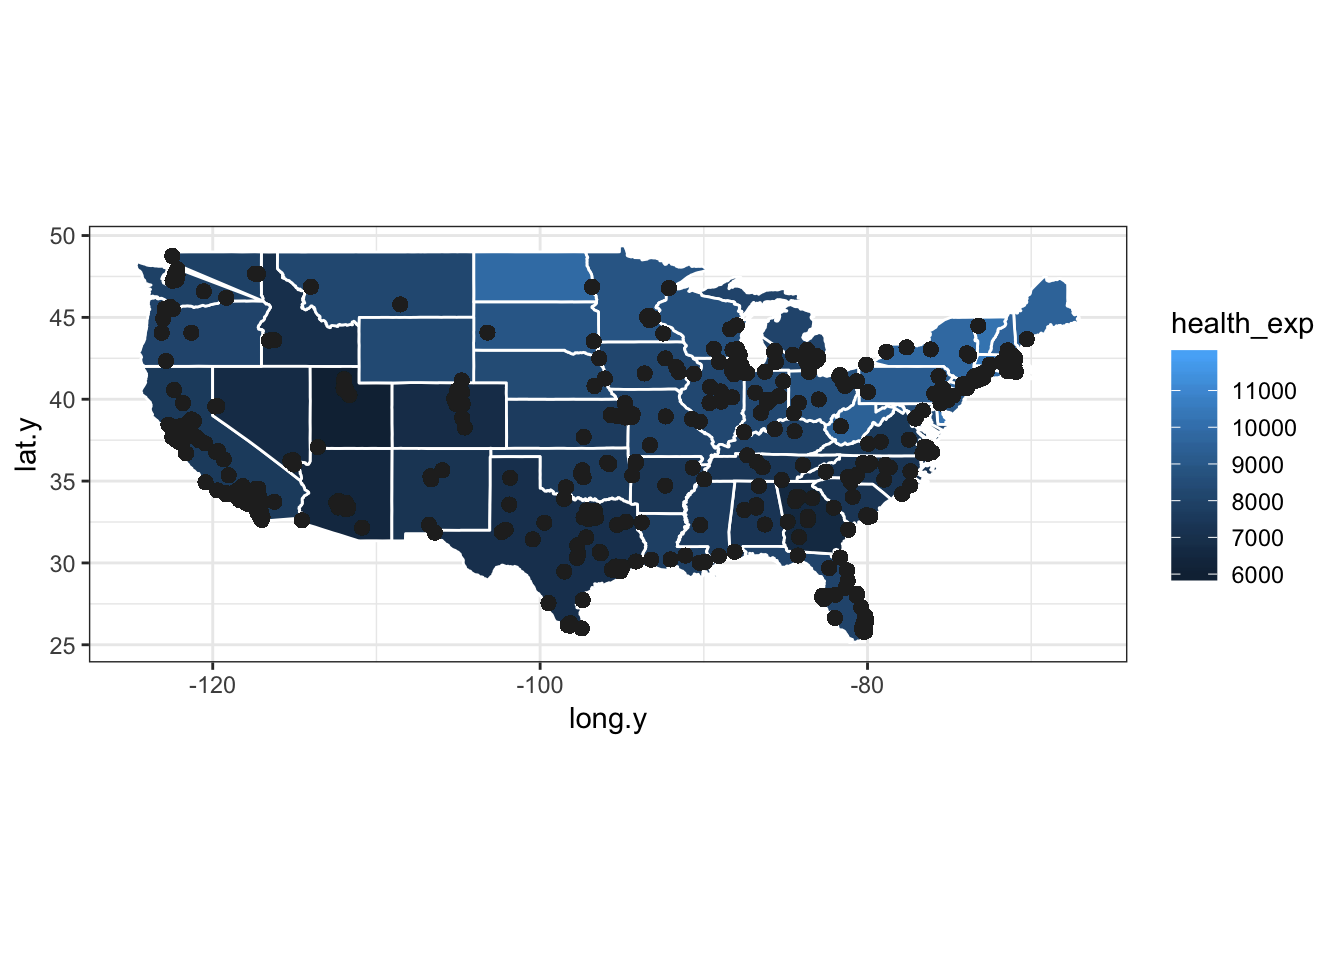
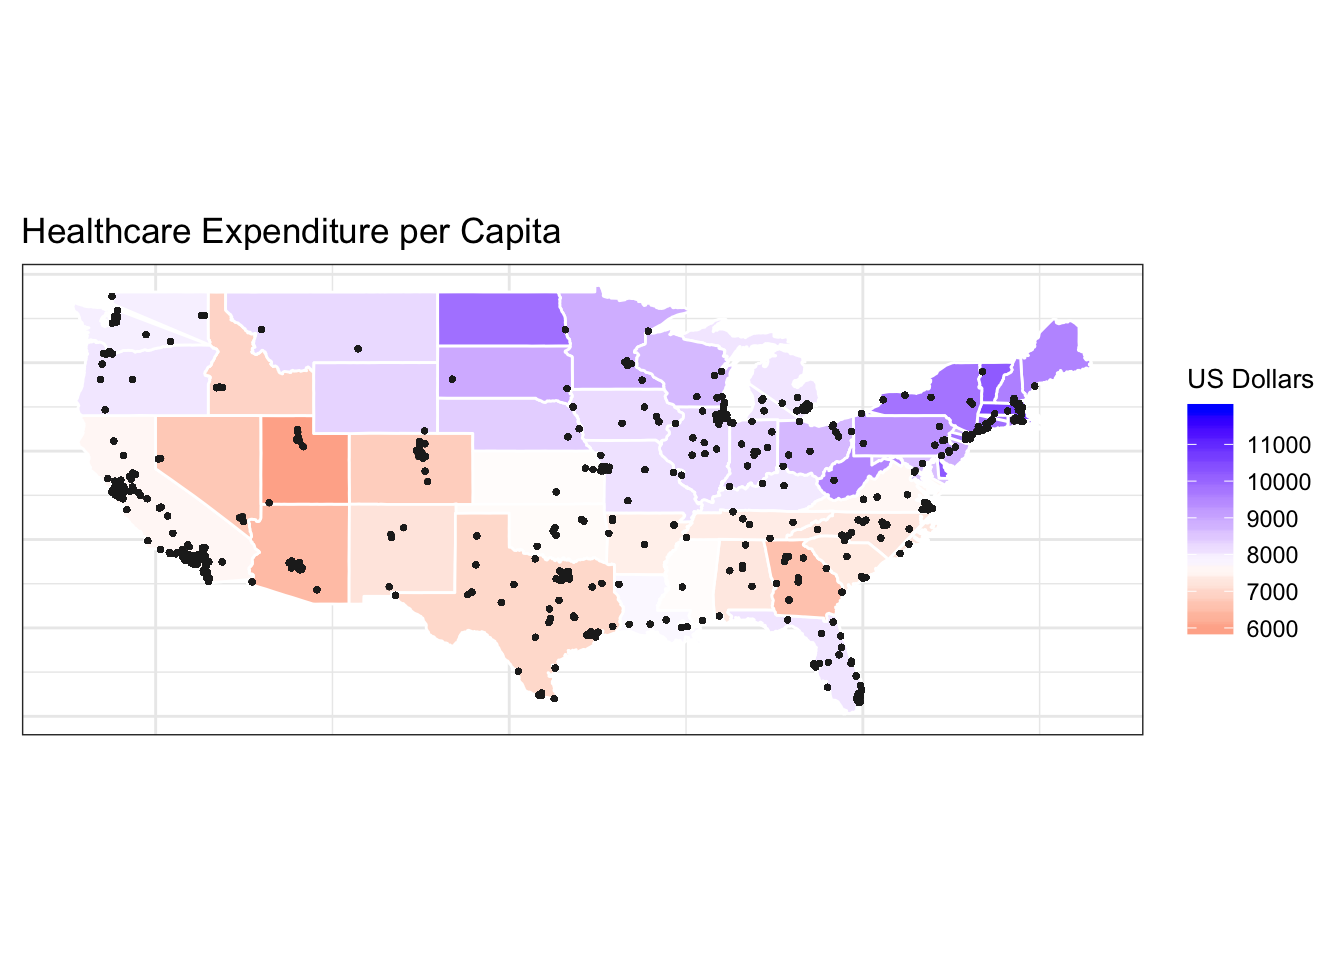
adding regional boxplot

Changed region(s): [[0.0, 0.2188, 0.9688, 0.7812], [0.8125, 0.625, 0.8438, 0.6875], [0.75, 0.5, 0.7812, 0.5312]]

diff --git a/healthcare_expenditure.html b/healthcare_expenditure.html
@@ -22,6 +22,13 @@
 <script src="site_libs/navigation-1.1/tabsets.js"></script>
 <link href="site_libs/highlightjs-9.12.0/default.css" rel="stylesheet" />
 <script src="site_libs/highlightjs-9.12.0/highlight.js"></script>
+<script src="site_libs/htmlwidgets-1.2/htmlwidgets.js"></script>
+<script src="site_libs/plotly-binding-4.8.0/plotly.js"></script>
+<script src="site_libs/typedarray-0.1/typedarray.min.js"></script>
+<link href="site_libs/crosstalk-1.0.0/css/crosstalk.css" rel="stylesheet" />
+<script src="site_libs/crosstalk-1.0.0/js/crosstalk.min.js"></script>
+<link href="site_libs/plotly-htmlwidgets-css-1.39.2/plotly-htmlwidgets.css" rel="stylesheet" />
+<script src="site_libs/plotly-main-1.39.2/plotly-latest.min.js"></script>
 <link href="site_libs/font-awesome-5.0.13/css/fa-svg-with-js.css" rel="stylesheet" />
 <script src="site_libs/font-awesome-5.0.13/js/fontawesome-all.min.js"></script>
 <script src="site_libs/font-awesome-5.0.13/js/fa-v4-shims.min.js"></script>
@@ -187,9 +194,6 @@ $(document).ready(function () {
       </ul>
       <ul class="nav navbar-nav navbar-right">
         <li>
-  <a href="about.html">About</a>
-</li>
-<li>
   <a href="health_outcome.html">Health Outcome</a>
 </li>
 <li>
@@ -221,7 +225,8 @@ $(document).ready(function () {
 </div>
 
 
-
+<div id="htmlwidget-4a202edb7a28a586f19e" style="width:672px;height:480px;" class="plotly html-widget"></div>
+<script type="application/json" data-for="htmlwidget-4a202edb7a28a586f19e">{"x":{"visdat":{"1e4752b622d4":["function () ","plotlyVisDat"]},"cur_data":"1e4752b622d4","attrs":{"1e4752b622d4":{"y":{},"text":{},"color":{},"alpha_stroke":1,"sizes":[10,100],"spans":[1,20],"type":"box"}},"layout":{"margin":{"b":40,"l":60,"t":25,"r":10},"xaxis":{"domain":[0,1],"automargin":true,"title":"Region"},"yaxis":{"domain":[0,1],"automargin":true,"title":"Health Expenditures per Capita per State"},"hovermode":"closest","showlegend":true},"source":"A","config":{"modeBarButtonsToAdd":[{"name":"Collaborate","icon":{"width":1000,"ascent":500,"descent":-50,"path":"M487 375c7-10 9-23 5-36l-79-259c-3-12-11-23-22-31-11-8-22-12-35-12l-263 0c-15 0-29 5-43 15-13 10-23 23-28 37-5 13-5 25-1 37 0 0 0 3 1 7 1 5 1 8 1 11 0 2 0 4-1 6 0 3-1 5-1 6 1 2 2 4 3 6 1 2 2 4 4 6 2 3 4 5 5 7 5 7 9 16 13 26 4 10 7 19 9 26 0 2 0 5 0 9-1 4-1 6 0 8 0 2 2 5 4 8 3 3 5 5 5 7 4 6 8 15 12 26 4 11 7 19 7 26 1 1 0 4 0 9-1 4-1 7 0 8 1 2 3 5 6 8 4 4 6 6 6 7 4 5 8 13 13 24 4 11 7 20 7 28 1 1 0 4 0 7-1 3-1 6-1 7 0 2 1 4 3 6 1 1 3 4 5 6 2 3 3 5 5 6 1 2 3 5 4 9 2 3 3 7 5 10 1 3 2 6 4 10 2 4 4 7 6 9 2 3 4 5 7 7 3 2 7 3 11 3 3 0 8 0 13-1l0-1c7 2 12 2 14 2l218 0c14 0 25-5 32-16 8-10 10-23 6-37l-79-259c-7-22-13-37-20-43-7-7-19-10-37-10l-248 0c-5 0-9-2-11-5-2-3-2-7 0-12 4-13 18-20 41-20l264 0c5 0 10 2 16 5 5 3 8 6 10 11l85 282c2 5 2 10 2 17 7-3 13-7 17-13z m-304 0c-1-3-1-5 0-7 1-1 3-2 6-2l174 0c2 0 4 1 7 2 2 2 4 4 5 7l6 18c0 3 0 5-1 7-1 1-3 2-6 2l-173 0c-3 0-5-1-8-2-2-2-4-4-4-7z m-24-73c-1-3-1-5 0-7 2-2 3-2 6-2l174 0c2 0 5 0 7 2 3 2 4 4 5 7l6 18c1 2 0 5-1 6-1 2-3 3-5 3l-174 0c-3 0-5-1-7-3-3-1-4-4-5-6z"},"click":"function(gd) { \n        // is this being viewed in RStudio?\n        if (location.search == '?viewer_pane=1') {\n          alert('To learn about plotly for collaboration, visit:\\n https://cpsievert.github.io/plotly_book/plot-ly-for-collaboration.html');\n        } else {\n          window.open('https://cpsievert.github.io/plotly_book/plot-ly-for-collaboration.html', '_blank');\n        }\n      }"}],"cloud":false},"data":[{"y":[11064,6452,7549,6804,7299,6927,8221,6714,7214,8044,5982,7913,8320],"text":["Health Expenditures per Capita: 11064<br />State: AK","Health Expenditures per Capita: 6452<br />State: AZ","Health Expenditures per Capita: 7549<br />State: CA","Health Expenditures per Capita: 6804<br />State: CO","Health Expenditures per Capita: 7299<br />State: HI","Health Expenditures per Capita: 6927<br />State: ID","Health Expenditures per Capita: 8221<br />State: MT","Health Expenditures per Capita: 6714<br />State: NV","Health Expenditures per Capita: 7214<br />State: NM","Health Expenditures per Capita: 8044<br />State: OR","Health Expenditures per Capita: 5982<br />State: UT","Health Expenditures per Capita: 7913<br />State: WA","Health Expenditures per Capita: 8320<br />State: WY"],"type":"box","name":"West","marker":{"color":"rgba(102,194,165,1)","line":{"color":"rgba(102,194,165,1)"}},"line":{"color":"rgba(102,194,165,1)"},"xaxis":"x","yaxis":"y","frame":null},{"y":[7281,7408,10254,11944,8076,6587,8004,7815,8602,7646,7264,7627,7311,7372,6998,7556,9462],"text":["Health Expenditures per Capita: 7281<br />State: AL","Health Expenditures per Capita: 7408<br />State: AR","Health Expenditures per Capita: 10254<br />State: DE","Health Expenditures per Capita: 11944<br />State: DC","Health Expenditures per Capita: 8076<br />State: FL","Health Expenditures per Capita: 6587<br />State: GA","Health Expenditures per Capita: 8004<br />State: KY","Health Expenditures per Capita: 7815<br />State: LA","Health Expenditures per Capita: 8602<br />State: MD","Health Expenditures per Capita: 7646<br />State: MS","Health Expenditures per Capita: 7264<br />State: NC","Health Expenditures per Capita: 7627<br />State: OK","Health Expenditures per Capita: 7311<br />State: SC","Health Expenditures per Capita: 7372<br />State: TN","Health Expenditures per Capita: 6998<br />State: TX","Health Expenditures per Capita: 7556<br />State: VA","Health Expenditures per Capita: 9462<br />State: WV"],"type":"box","name":"South","marker":{"color":"rgba(252,141,98,1)","line":{"color":"rgba(252,141,98,1)"}},"line":{"color":"rgba(252,141,98,1)"},"xaxis":"x","yaxis":"y","frame":null},{"y":[8262,8300,8200,7651,8055,8871,8107,8412,9851,8712,8933,8702],"text":["Health Expenditures per Capita: 8262<br />State: IL","Health Expenditures per Capita: 8300<br />State: IN","Health Expenditures per Capita: 8200<br />State: IA","Health Expenditures per Capita: 7651<br />State: KS","Health Expenditures per Capita: 8055<br />State: MI","Health Expenditures per Capita: 8871<br />State: MN","Health Expenditures per Capita: 8107<br />State: MO","Health Expenditures per Capita: 8412<br />State: NE","Health Expenditures per Capita: 9851<br />State: ND","Health Expenditures per Capita: 8712<br />State: OH","Health Expenditures per Capita: 8933<br />State: SD","Health Expenditures per Capita: 8702<br />State: WI"],"type":"box","name":"Midwest","marker":{"color":"rgba(141,160,203,1)","line":{"color":"rgba(141,160,203,1)"}},"line":{"color":"rgba(141,160,203,1)"},"xaxis":"x","yaxis":"y","frame":null},{"y":[9859,9531,10559,9589,8859,9778,9258,9551,10190],"text":["Health Expenditures per Capita: 9859<br />State: CT","Health Expenditures per Capita: 9531<br />State: ME","Health Expenditures per Capita: 10559<br />State: MA","Health Expenditures per Capita: 9589<br />State: NH","Health Expenditures per Capita: 8859<br />State: NJ","Health Expenditures per Capita: 9778<br />State: NY","Health Expenditures per Capita: 9258<br />State: PA","Health Expenditures per Capita: 9551<br />State: RI","Health Expenditures per Capita: 10190<br />State: VT"],"type":"box","name":"Northeast","marker":{"color":"rgba(231,138,195,1)","line":{"color":"rgba(231,138,195,1)"}},"line":{"color":"rgba(231,138,195,1)"},"xaxis":"x","yaxis":"y","frame":null}],"highlight":{"on":"plotly_click","persistent":false,"dynamic":false,"selectize":false,"opacityDim":0.2,"selected":{"opacity":1},"debounce":0},"base_url":"https://plot.ly"},"evals":["config.modeBarButtonsToAdd.0.click"],"jsHooks":[]}</script>
 
 
 
